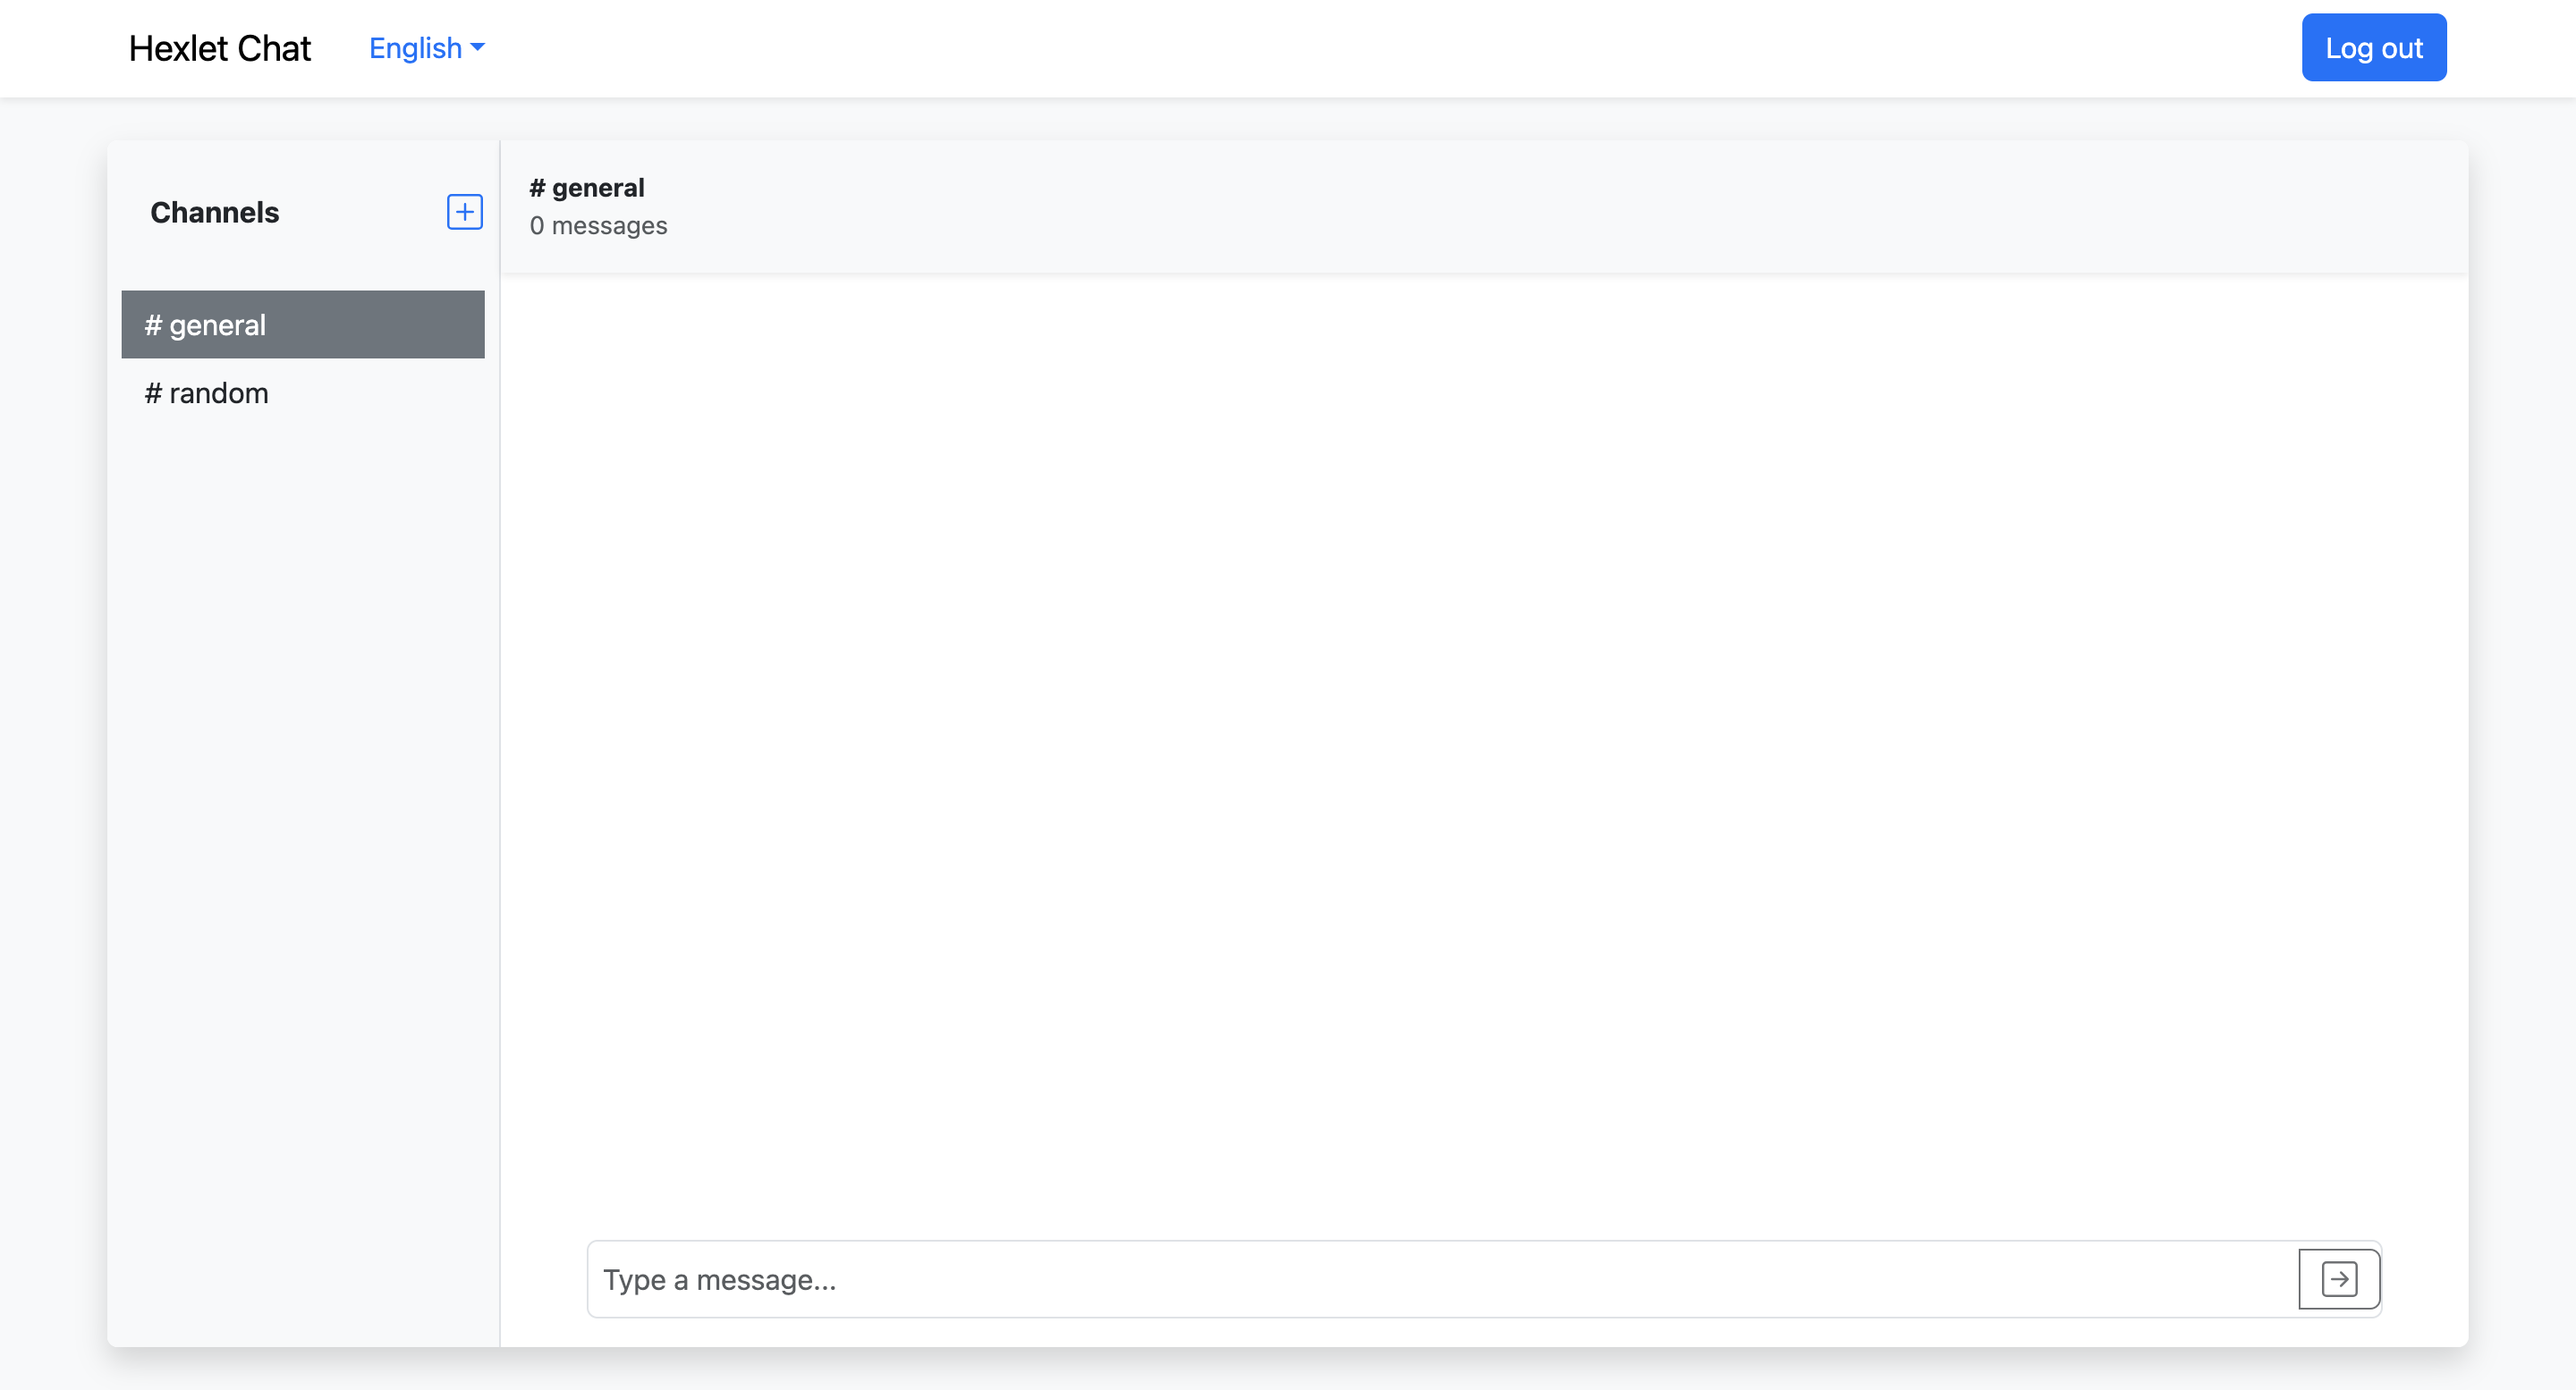
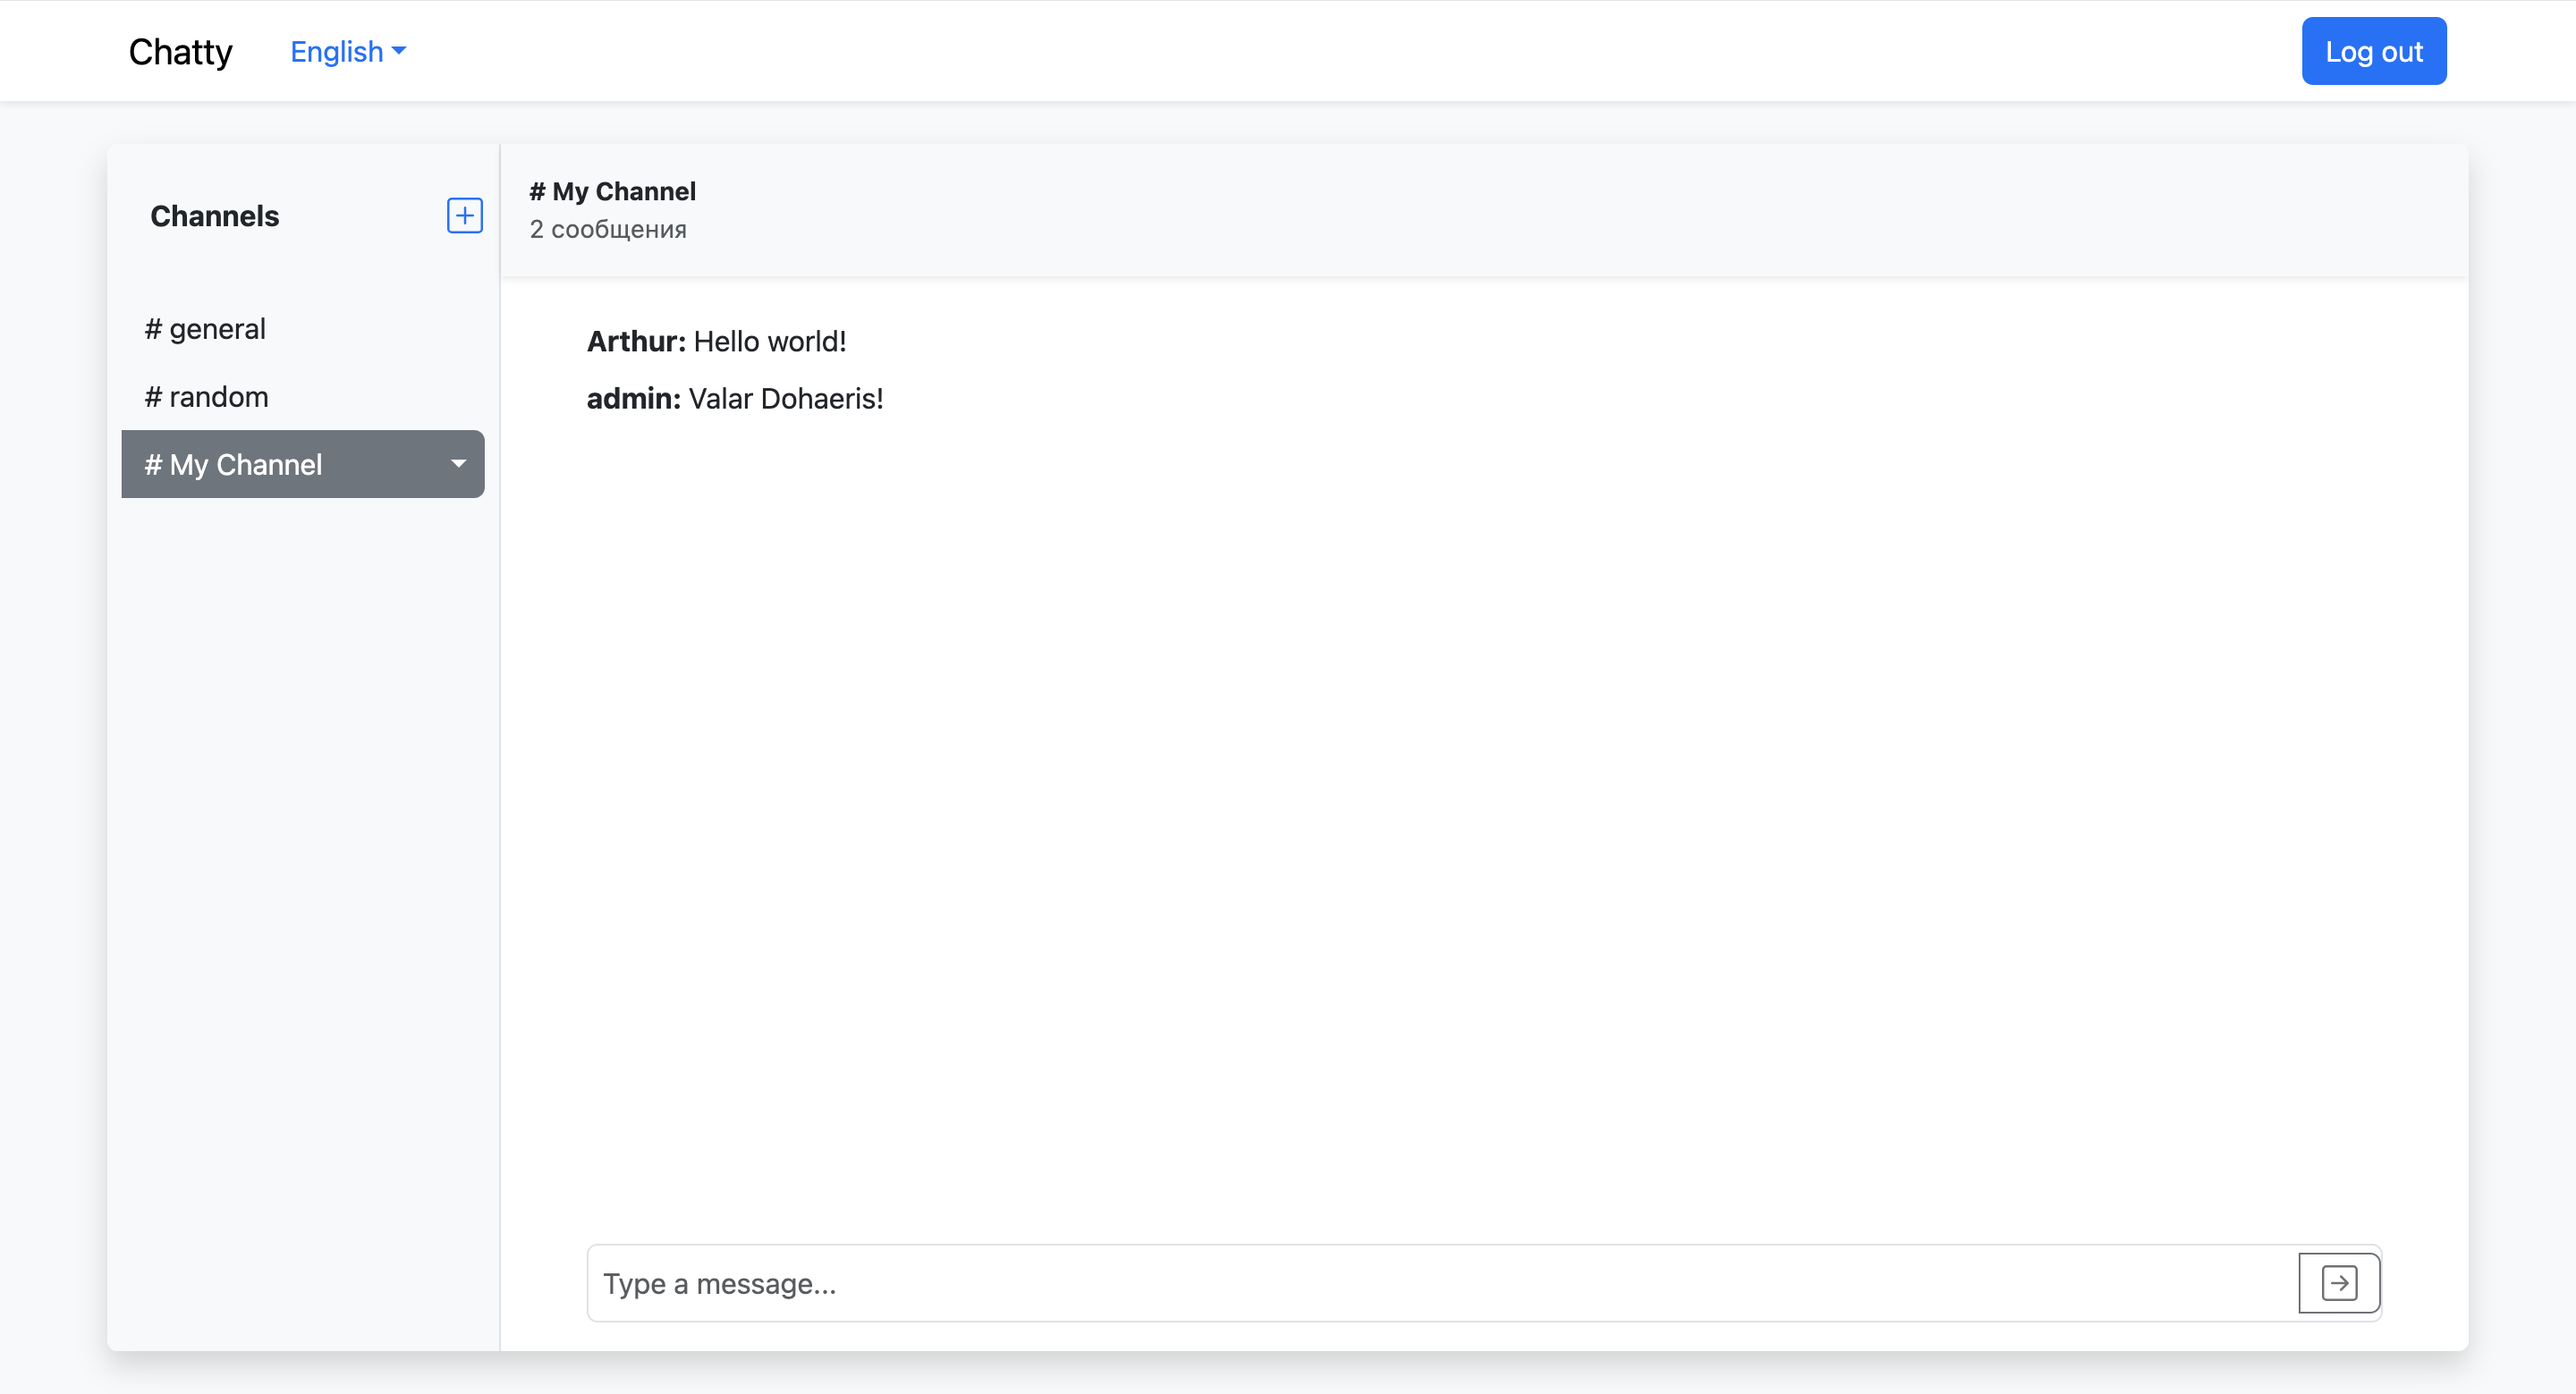
update readme

diff --git a/README.md b/README.md
@@ -1,11 +1,11 @@
-### Hexlet tests and linter status:
+### Autotests and linter status:
 [![Actions Status](https://github.com/ArthurFloyd/frontend-project-12/actions/workflows/hexlet-check.yml/badge.svg)](https://github.com/ArthurFloyd/frontend-project-12/actions)
 
-# Hexlet Chat
+# Chatty
 
-#### [Hexlet Chat](https://frontend-project-12-9.onrender.com/) - simplified version of Slack
+#### [Chatty](https://frontend-project-12-9.onrender.com/) - this is a simplified version of Slack
 
-Hexlet chat is a single-page application with registration and authentication.
+Сhatty is a single-page application with registration and authentication.
 All user actions are tracked and processed in real-time.
 There are permanent (default) channels in the chat, as well as user-created channels. Channels can also be renamed or deleted.
 Each user action is accompanied by a display of notification, so the interface is as friendly as possible.
@@ -25,7 +25,7 @@ There is support for two languages (ru, en) with switching between them at any t
 
 [2]: frontend/public/loginReadme.png "Login page screenshot"
 
-### 3. Chat-slack (Home page):
+### 3. Chatty (Home page):
   - **Sending messages** - users can enter and send text messages to other participants within the selected channel
   - **Channel management**:
     - Adding channels
